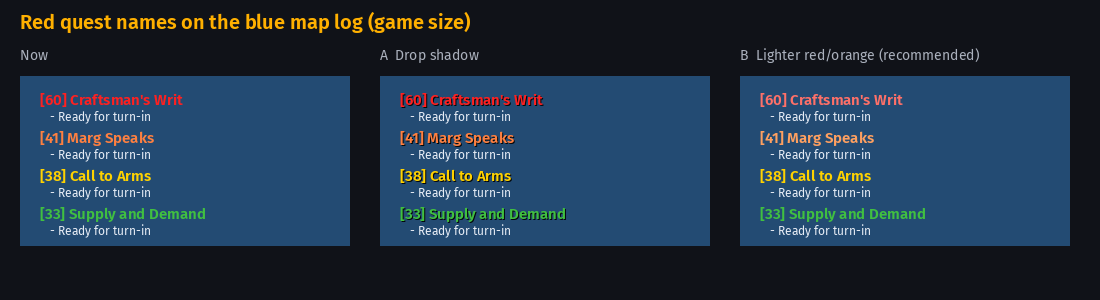
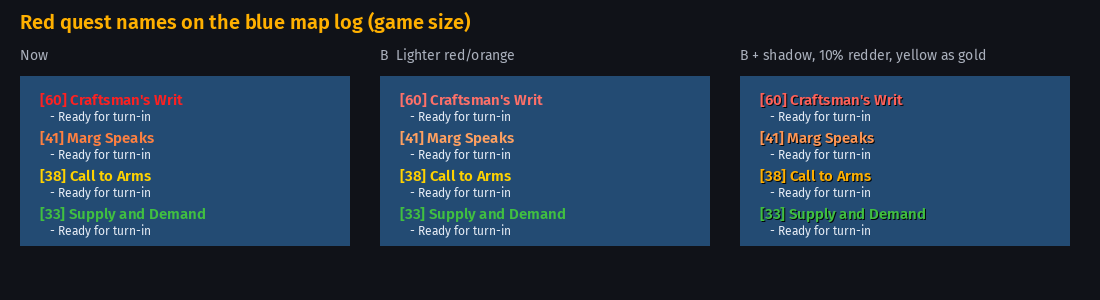
Map quest titles: shadow, lighter red/orange, yellow as gold
Claude-Session: https://claude.ai/code/session_01VXfbTCnfGK8G42qZ82wSEU

diff --git a/mock/maplog_red.py b/mock/maplog_red.py
@@ -10,7 +10,10 @@ def panel(mode):
         y=14+i*38; col=c
         if mode=='B' and c==RED: col=(255,112,104)
         if mode=='B' and c==ORG: col=(255,160,96)
-        if mode in('A','C'):
+        if mode=='D' and c==RED: col=(255,96,88)
+        if mode=='D' and c==ORG: col=(255,150,84)
+        if mode=='D' and c==YEL: col=GOLD
+        if mode in('A','C','D'):
             sh=Image.new('RGBA',(W,H),(0,0,0,0)); sd=ImageDraw.Draw(sh)
             sd.text((20+1,y+1),t,font=F(15,'SemiBold'),fill=(0,0,0,230))
             if mode=='C': sd.text((20,y),t,font=F(15,'SemiBold'),fill=(0,0,0,255),stroke_width=2,stroke_fill=(8,14,26,255))
@@ -20,6 +23,6 @@ def panel(mode):
     return im
 out=Image.new('RGBA',(1100,300),(16,18,24,255)); d=ImageDraw.Draw(out)
 d.text((20,10),"Red quest names on the blue map log (game size)",font=F(20,'SemiBold'),fill=GOLD)
-for i,(m,t) in enumerate((('N',"Now"),('A',"A  Drop shadow"),('B',"B  Lighter red/orange (recommended)"),)):
+for i,(m,t) in enumerate((('N',"Now"),('B',"B  Lighter red/orange"),('D',"B + shadow, 10% redder, yellow as gold"),)):
     x=20+i*360; d.text((x,46),t,font=F(14),fill=DIM); out.alpha_composite(panel(m),(x,76))
 out.convert('RGB').save('out_maplog_red.png')

diff --git a/HANDOFF.md b/HANDOFF.md
@@ -1174,3 +1174,7 @@ trim), xpbar_render.py (XP bar).
   CHARACTER CREST (user 12:59 'A'): P3.FaceCrest - navy disc + live
   SetPortraitTexture('player') masked round, refreshed on UNIT_PORTRAIT_
   UPDATE / PLAYER_ENTERING_WORLD / UNIT_MODEL_CHANGED / OnShow.
+  MAP QUEST TITLES (user 13:02 yes, mock/maplog_red.py right): QuestTitle
+  in W.Visit (WorldMapFrame rows with .Checkbox+.TagTexture): shadow
+  0,0,0,.9 1,-1; SetTextColor hook: red->(1,.376,.345), orange->
+  (1,.588,.329), yellow->GOLD; green/gray kept.
